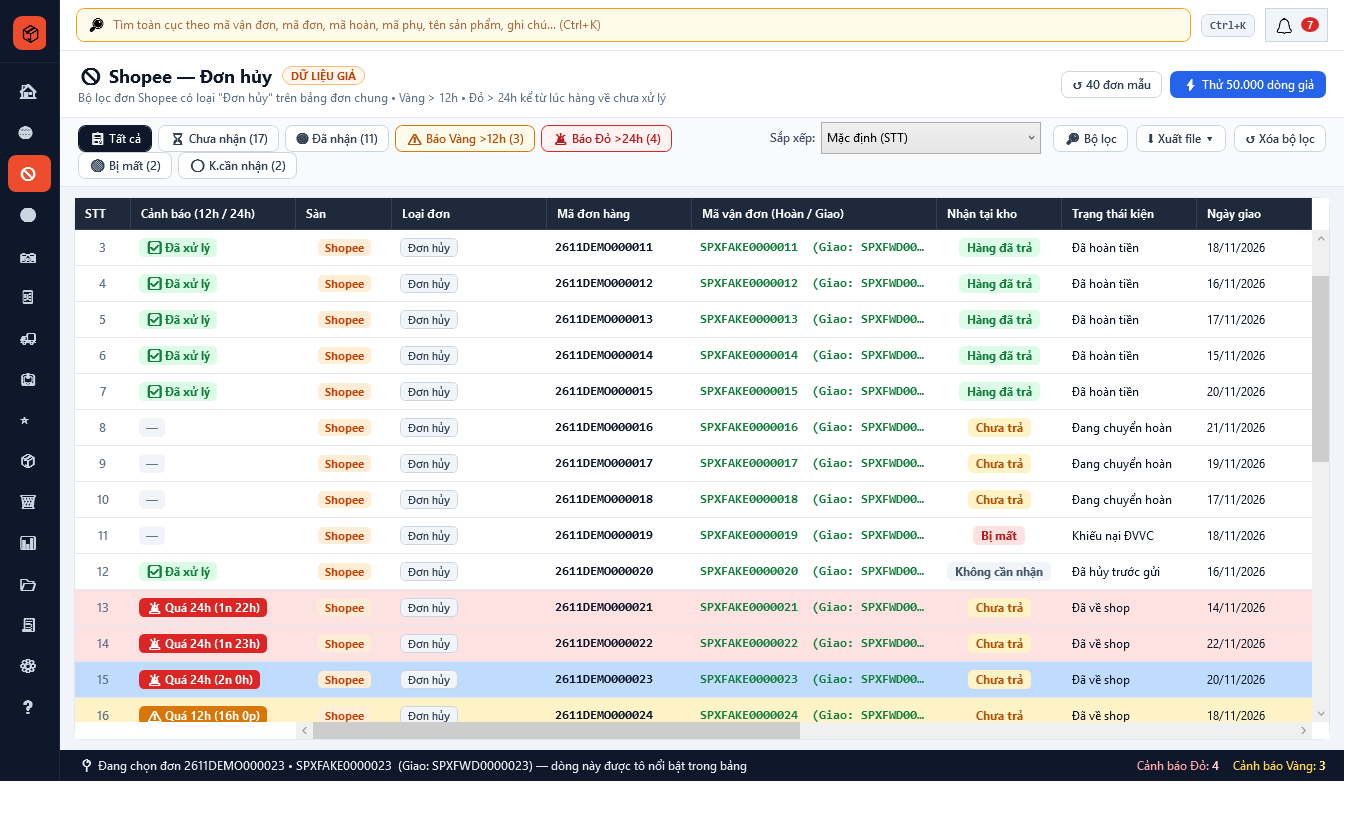
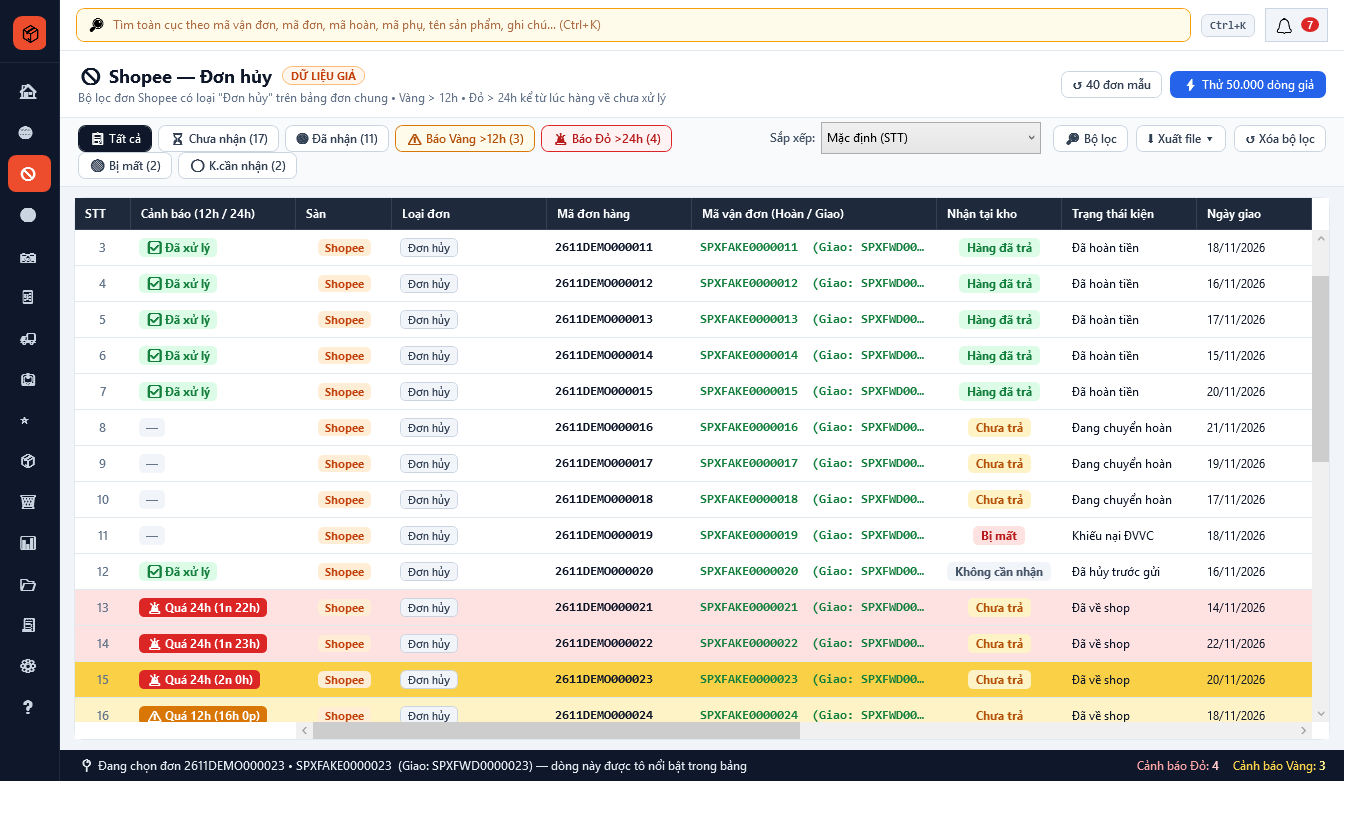
Windows: dong duoc mo nhay vang tren tung o (truoc do bi o tu to nen de mat)

Changed region(s): [[0.0309, 0.7927, 0.9882, 0.8537]]

diff --git a/v2/src/QuanLyHangHoan.App/Views/GridReveal.cs b/v2/src/QuanLyHangHoan.App/Views/GridReveal.cs
@@ -26,15 +26,41 @@ public static class GridReveal
     private static bool Flash(DataGrid grid, object row)
     {
         if (grid.ItemContainerGenerator.ContainerFromItem(row) is not DataGridRow container) return false;
-        var brush = new SolidColorBrush(Color.FromRgb(0xFA, 0xCC, 0x15)); // vàng đậm
-        container.Background = brush;
-        var anim = new ColorAnimation(Color.FromRgb(0xFA, 0xCC, 0x15), Color.FromArgb(0, 0xFA, 0xCC, 0x15), new Duration(TimeSpan.FromSeconds(3.5)))
+        // Các ô của dòng tự tô nền (màu "đang chọn") đè lên nền dòng, nên phải nháy ngay trên từng ô.
+        var cells = new List<DataGridCell>();
+        CollectCells(container, cells);
+        if (cells.Count == 0) return false;
+
+        var strong = Color.FromRgb(0xFA, 0xCC, 0x15);   // vàng đậm
+        var soft = Color.FromRgb(0xFE, 0xF3, 0xC7);     // vàng nhạt
+        var brush = new SolidColorBrush(strong);
+        // Nháy vàng đậm ↔ nhạt 3 lần (khoảng 2,4 giây) rồi mờ dần về màu "đang chọn".
+        var anim = new ColorAnimationUsingKeyFrames { Duration = TimeSpan.FromSeconds(3.4) };
+        double t = 0;
+        anim.KeyFrames.Add(new DiscreteColorKeyFrame(strong, KeyTime.FromTimeSpan(TimeSpan.FromSeconds(t))));
+        for (var i = 0; i < 3; i++)
         {
-            BeginTime = TimeSpan.FromSeconds(1.2) // giữ vàng đậm 1,2 giây rồi mờ dần
+            t += 0.4; anim.KeyFrames.Add(new LinearColorKeyFrame(soft, KeyTime.FromTimeSpan(TimeSpan.FromSeconds(t))));
+            t += 0.4; anim.KeyFrames.Add(new LinearColorKeyFrame(strong, KeyTime.FromTimeSpan(TimeSpan.FromSeconds(t))));
+        }
+        anim.KeyFrames.Add(new LinearColorKeyFrame(Color.FromArgb(0, 0xFA, 0xCC, 0x15), KeyTime.FromTimeSpan(TimeSpan.FromSeconds(3.4))));
+        anim.Completed += (_, _) =>
+        {
+            foreach (var c in cells) c.ClearValue(Control.BackgroundProperty);
         };
-        anim.Completed += (_, _) => container.ClearValue(Control.BackgroundProperty);
+        foreach (var c in cells) c.Background = brush;
         brush.BeginAnimation(SolidColorBrush.ColorProperty, anim);
         container.BringIntoView();
         return true;
+    }
+
+    private static void CollectCells(DependencyObject root, List<DataGridCell> cells)
+    {
+        for (var i = 0; i < VisualTreeHelper.GetChildrenCount(root); i++)
+        {
+            var child = VisualTreeHelper.GetChild(root, i);
+            if (child is DataGridCell cell) cells.Add(cell);
+            else CollectCells(child, cells);
+        }
     }
 }
